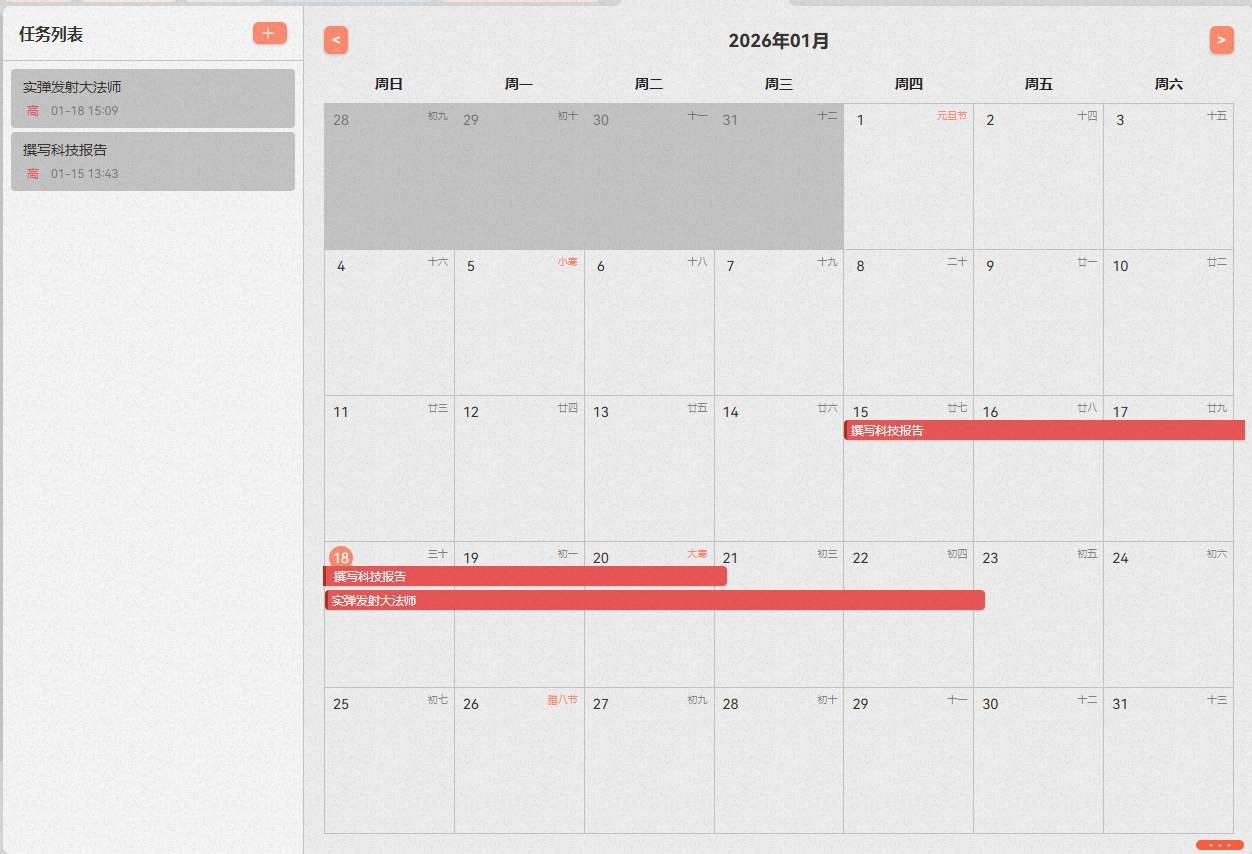
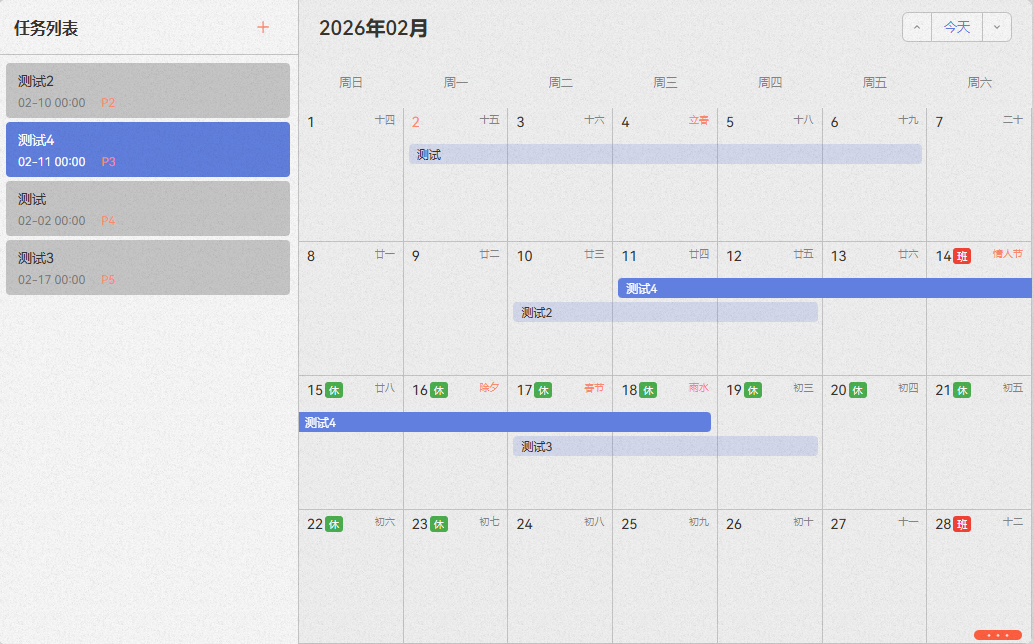
docs: 更新README文档并添加语言切换链接
- 在README.md和README_en_US.md中互相添加语言切换链接
- 修正中文README中关于插件类型的描述措辞
- 在中文README中添加更新时间记录
- 更新预览图片文件

diff --git a/README.md b/README.md
@@ -1,10 +1,12 @@
+[English](./README_en_US.md)
+
 # 任务规划器
 
 这是一个为思源笔记设计的插件：任务规划器。
 
 ## 初衷
 
-工作中多个项目同时进行的时候，经常记不清楚任务的优先级，也记不清楚任务的截止时间。之前使用过一段时间的滴答清单，对于它的日历视图的任务规划功能还是很认同的，但是它天然不适合作为一个笔记系统，因此，我萌生了在思源笔记中实现一个类似的任务管理视图插件的想法。如果这个插件成功运行在集市中的话，那么之前的一些小的需求也可以通过插件的形式来实现了。
+工作中多个项目同时进行的时候，经常记不清楚任务的优先级，也记不清楚任务的截止时间。之前使用过一段时间的滴答清单，对于它的日历视图的任务规划功能还是很认同的，但是它天然不适合作为一个笔记系统，因此，我萌生了在思源笔记中实现一个类似的任务管理插件的想法。如果这个插件成功运行在集市中的话，那么之前的一些小的需求也可以通过插件的形式来实现了。
 
 ## 归纳需求
 
@@ -24,3 +26,7 @@
 ## 操作方式
 
 安装完成后，在顶部栏右侧会出现插件对应的图标，点击后会建立一个页签，在页签中即可使用插件。
+
+## 更新时间记录
+
+2026-02-02  23:11

diff --git a/README_en_US.md b/README_en_US.md
@@ -1,3 +1,5 @@
+[中文](./README.md)
+
 # Task Planner
 
 This is a plug-in designed for Siyuan Notes: Task Planner.
